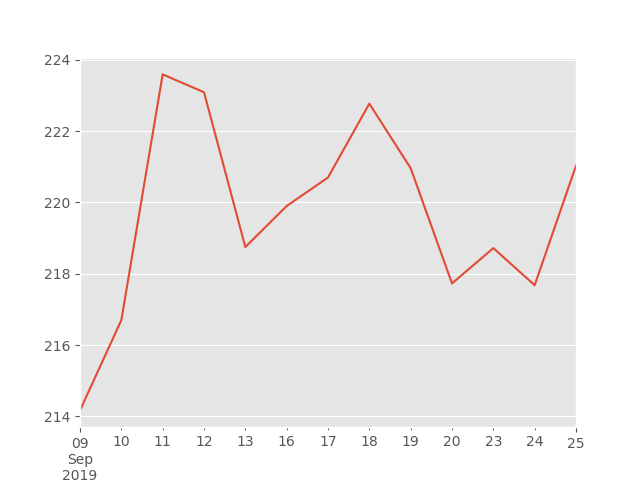
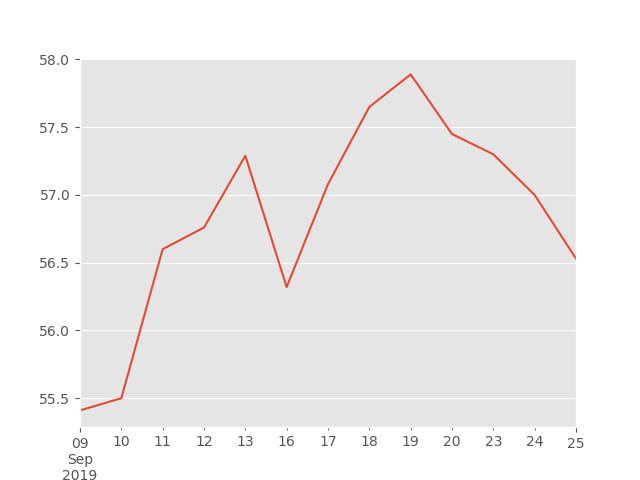
updates and fixes

diff --git a/templates/home.html b/templates/home.html
@@ -31,6 +31,11 @@ There is {{user_account.portfolio.cash_account.value()}} euro in your account
     <h2>Securities:</h2>
     {{user_account.portfolio.fin_products}} <br>
     <h2>Portfolio value:</h2>
+    <br>
+
+    <img src="/static/portfolio.png">
+
+    <br>
 
     current value securities: {{user_account.portfolio.value(market,current_date)}}, cash:  {{user_account.portfolio.cash_account.value()}}, total value: {{user_account.portfolio.value(market,current_date) + user_account.portfolio.cash_account.value()}}
     <br>
@@ -61,7 +66,7 @@ There is {{user_account.portfolio.cash_account.value()}} euro in your account
         <p><button type="submit" name="execute_trades"/>Execute trades</p>
     </form>
     <form method="post">
-        <p><button type="submit" name="current_date">Today</button></p>
+        <p><button type="submit" name="current_date">Last available date</button></p>
     </form>
     <form method="post">
         <p><button type="submit" name="next_day"/>Next day</button></p>

diff --git a/templates/new_trade.html b/templates/new_trade.html
@@ -69,7 +69,7 @@
 
     <img src="/static/img.png">
 
-
+    
     {% endif %}
 
     </body>

diff --git a/getRichOrDieTrying.py b/getRichOrDieTrying.py
@@ -3,22 +3,19 @@ from getRichOrDieTrying.Market import Market
 from flask import Flask, render_template, request, redirect, send_file
 import datetime as dt
 import pandas as pd
-from io import BytesIO
+import os
 import matplotlib.pyplot as plt
-from matplotlib.backends.backend_agg import FigureCanvasAgg as FigureCanvas
-from matplotlib.figure import Figure
 from datetime import timedelta
 from getRichOrDieTrying.Utilities import plot_performance
-
-
+import time
 plt.style.use('ggplot')
 
 app = Flask(__name__)
 
 market = Market()
-user = User_Account("TestUser", 0)
+user_account = User_Account("TestUser", 0)
 current_date = dt.datetime(2019, 9, 16)
-hist_performance_start_date = dt.datetime(2019, 9, 9)
+hist_performance_start_date = dt.datetime(2018, 9, 3)
 
 
 @app.route("/home", methods=["GET", "POST"])
@@ -27,7 +24,7 @@ def home():
     global current_date
     if request.method == "POST":
         if "execute_trades" in request.form:
-            user.execute_trades(market, current_date)
+            user_account.execute_trades(market, current_date)
             return redirect("home")
         elif "add_trade" in request.form:
             return redirect("new_trade")
@@ -39,16 +36,17 @@ def home():
             elif dt.datetime.weekday(current_date) == 6:
                 current_date = current_date + timedelta(days=1)
             return redirect("home")
-        elif "today" in request.form:
-            current_date = dt.datetime.now()
+        elif "current_date" in request.form:
+            now = dt.datetime.now()
+            current_date = dt.datetime(now.year, now.month, now.day) - timedelta(days=1)
             return redirect("home")
 
-
         cash = int(request.form["cash"])
-        user.portfolio.cash_account.update_cash_account(cash)
+        user_account.portfolio.cash_account.update_cash_account(cash)
         return redirect("home")
     else:
-        return render_template("home.html", user_account=user, market=market, current_date=current_date)
+        hist_performance_portfolio_plot(user_account, market, current_date)
+        return render_template("home.html", user_account=user_account, market=market, current_date=current_date)
 
 
 def hist_performance(stock_ticker):
@@ -56,11 +54,22 @@ def hist_performance(stock_ticker):
     tempUser.trade_list = [{'Ticker': stock_ticker, 'Order Type': "Buy", 'Amount': 1}]
     tempUser.execute_trades(market, hist_performance_start_date)
     fig, ax = plt.subplots()
-    df = pd.DataFrame.from_dict(tempUser.portfolio.historical_performance(market), orient='index', columns=['Market Value'])
-    df['Market Value'].plot()
-    fig.savefig("static/img.png")
+    df = pd.DataFrame.from_dict(tempUser.portfolio.historical_performance(market, current_date), orient='index', columns=['Portfolio Value'])
+    df['Portfolio Value'].plot()
+    print("remove fig")
+    file_path = "static/img.png"
+    if os.path.exists(file_path):
+        os.remove(file_path)
+    fig.savefig(file_path)
 
+def hist_performance_portfolio_plot(user_account, market, current_date):
+    df = pd.DataFrame.from_dict(user_account.portfolio.historical_performance(market, current_date), orient='index', columns=['Portfolio Value'])
+    fig = plot_performance(df, 'Historical Portfolio Performance', 'Date Range', 'Portfolio Value')
 
+    file_path = "static/portfolio.png"
+    if os.path.exists(file_path):
+        os.remove(file_path)
+    fig.savefig(file_path)
 
 @app.route("/new_trade", methods=["GET", "POST"])
 # the user will ask for this web-page where the user should enter the variable
@@ -72,6 +81,7 @@ def new_trade():
 
         if "check_perfomance" in request.form:
             hist_performance(stock_ticker)
+            time.sleep(5)
             return render_template("new_trade.html", title="new_trade", stock_ticker=stock_ticker)
 
         # get the form data from the user
@@ -81,7 +91,7 @@ def new_trade():
         new_trades = []
         trade = {'Ticker': stock_ticker, 'Order Type': type_order, 'Amount': int(num_sequrities)}
         new_trades.append(dict(trade))
-        user.trade_list += new_trades
+        user_account.trade_list += new_trades
 
         return redirect("home")
     else:

diff --git a/getRichOrDieTrying/Portfolio.py b/getRichOrDieTrying/Portfolio.py
@@ -67,12 +67,16 @@ class Portfolio:
         #return securities_value + self.cash_account.value()
         return securities_value
 
-    def historical_performance(self, market):
+    def historical_performance(self, market, current_date):
 
         historical_portfolio_values = {}
 
+        if self.portfolio_history.__len__() == 0:
+            return historical_portfolio_values
+
         initial_date = min(self.portfolio_history.keys())
-        last_date = datetime.now() - timedelta(days=1)
+
+        last_date = current_date
 
         for day in pd.bdate_range(start=initial_date, end=last_date):
             try:

diff --git a/getRichOrDieTrying/Utilities.py b/getRichOrDieTrying/Utilities.py
@@ -15,3 +15,4 @@ def plot_performance(df, str_title, str_xaxis, str_yaxis):
     plt.xlabel(str_xaxis, fontsize=12)
     plt.ylabel(str_yaxis, fontsize=12)
     plt.xticks(rotation=45)
+    return fig
